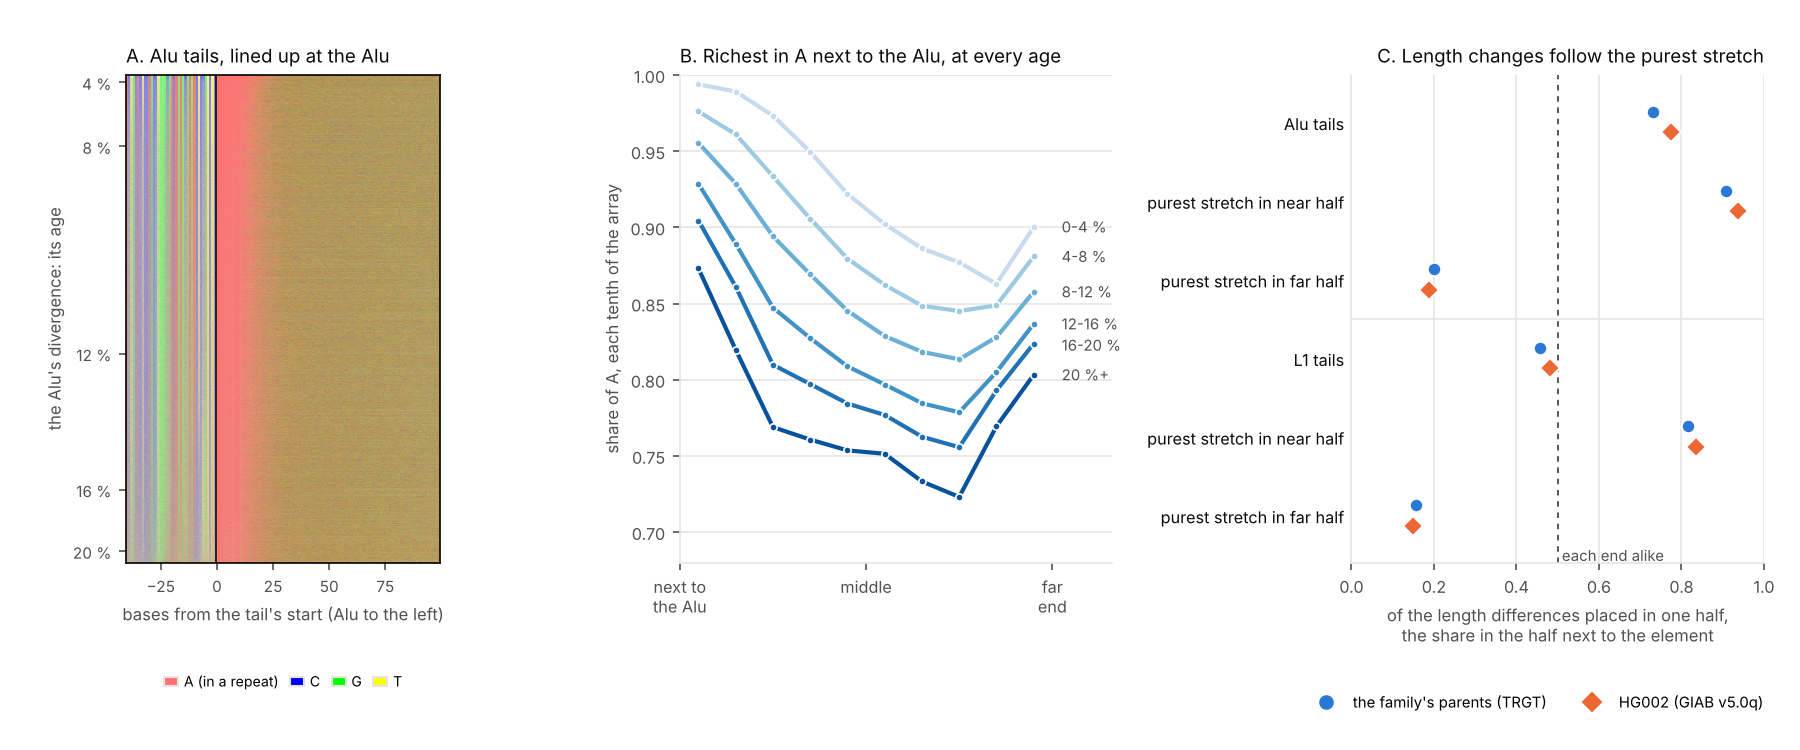
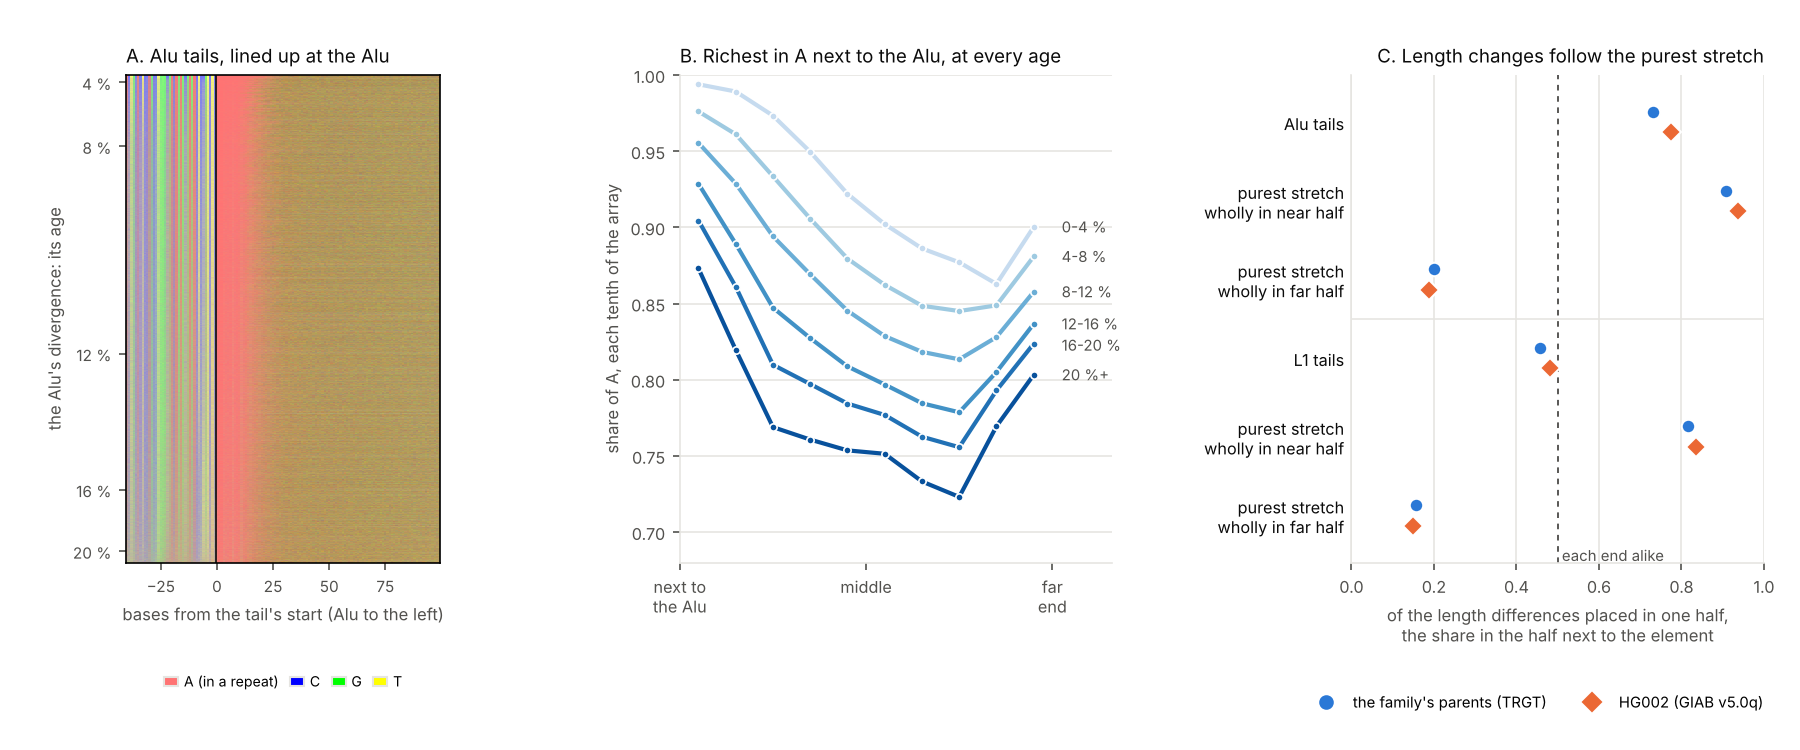
Experiments 11 and 12: the second check's fixes
11: two ratios and a share rounded from the counts; the near-end excess given
for tails 4 to 12 % diverged only (the youngest have too few differences
where the purest stretch lies far); 'on average' for the decay; the share of
differences one event doesn't explain counted among those placed; caveats on
composition, the loci's ends, dependence between differences and experiment
09's runs; panel C's labels as the classes are named.
12: what the poly(A) difference shows, and what the others don't, said as the
caveats say it; the estimable rate ratios counted.

Claude-Session: https://claude.ai/code/session_012i186FzCHAj17DcrF3hpBZ

diff --git a/experiments/11-along-arrays/figures.py b/experiments/11-along-arrays/figures.py
@@ -88,11 +88,11 @@ def main() -> None:
     c = fig.add_subplot(gs[2])
     style(c)
     rows = [("Alu tails", "Alu", "all", None),
-            ("purest stretch in near half", "Alu", "all", "longest in frame wholly in the near half"),
-            ("purest stretch in far half", "Alu", "all", "longest in frame wholly in the far half"),
+            ("purest stretch\nwholly in near half", "Alu", "all", "longest in frame wholly in the near half"),
+            ("purest stretch\nwholly in far half", "Alu", "all", "longest in frame wholly in the far half"),
             ("L1 tails", "L1", "all", None),
-            ("purest stretch in near half", "L1", "all", "longest in frame wholly in the near half"),
-            ("purest stretch in far half", "L1", "all", "longest in frame wholly in the far half")]
+            ("purest stretch\nwholly in near half", "L1", "all", "longest in frame wholly in the near half"),
+            ("purest stretch\nwholly in far half", "L1", "all", "longest in frame wholly in the far half")]
     for i, (label, fam, age, part) in enumerate(rows):
         for dy, (src, (colour, marker, _)) in zip((-0.13, 0.13), SOURCE.items()):
             d = lengths[src][fam][age]

diff --git a/experiments/11-along-arrays/README.md b/experiments/11-along-arrays/README.md
@@ -20,9 +20,12 @@ and a person's two haplotypes base for base beside them.
    complete (at most 20 bases of its consensus missing). The Alu tails, 7.8
    % of loci, hold 48 of the family's 440 new TR mutations (10.9 %): 1.13
    times what loci of their length, motif size and purity have elsewhere
-   (0.84 to 1.50). The 364,475 loci that begin as close to an element's end
-   but fail either test, most of them at ends RepeatMasker finds
-   incomplete, hold 142 (32 %): 1.35 times (1.14 to 1.59).
+   (0.84 to 1.50). The strata leave out composition, and experiment 06
+   found A- and T-rich repeats mutate about twice as often at equal length
+   and purity, so against other A-rich repeats the tails may mutate less.
+   The 364,475 loci that begin as close to an element's end but fail either
+   test, most of them at ends RepeatMasker finds incomplete, hold 142 (32
+   %): 1.35 times (1.14 to 1.59).
 2. **In the reference, Alu tails are richest in A next to the Alu, at every
    age.** In Alu tails 0 to 4 % diverged, the tenth of the array next to
    the Alu is on average 99.4 % A and the ninth tenth 86 %; in the
@@ -30,7 +33,8 @@ and a person's two haplotypes base for base beside them.
    diverged at the median), 99.3 % and 85 %. The gradient forms early,
    perhaps at insertion; but A-tails change within a million years
    (Roy-Engel et al. 2002), so a fast early decay of the far end can't be
-   ruled out. With age the tails lose A all along, least at the two ends:
+   ruled out. With age the tails lose A all along, least at the two ends
+   (where the catalogue's loci also tend to begin and end on a unit):
    from the youngest to the oldest (20 % or more), the near tenth falls by
    12 points, the third by 20, the sixth by 15 and the far tenth by 10. Part
    of that is a change in what the arrays are: 98 % of the youngest tails
@@ -38,7 +42,8 @@ and a person's two haplotypes base for base beside them.
    falls are 3 to 10 points. In experiment 09's pure purine runs at Alu tails, the
    share of G rises from 4 % next to the Alu to 27 % at the far end in the
    youngest Alus, and from 33 % to 40 % (44 % mid-run) in the oldest; A/T
-   runs, with T, go the same way. L1 tails are flatter, and richest in A at
+   runs, with T, go the same way (those runs are experiment 09's tails,
+   found without the test of a complete end). L1 tails are flatter, and richest in A at
    both ends.
 3. **Length changes follow the purest stretch.** Where an allele differs in
    length from the reference, the comparison places the difference in a
@@ -53,13 +58,14 @@ and a person's two haplotypes base for base beside them.
    there 9.9 to 1 (HG002 15.0); where it lies wholly in the far half, they
    fall there 4.0 to 1 (HG002 4.4). Placed differences touch the purest
    stretch 1.43 times as often as stretches as wide put at random (HG002
-   1.55; 1.41 over all 355,505 placed differences at any catalogue locus).
+   1.54; 1.41 over all 355,505 placed differences at any catalogue locus).
 4. **Beyond the purest stretch, Alu tails change more at the Alu end while
    they are young; L1 tails don't.** Were changes to follow the purest
    stretch alone, the two ratios above would mirror each other; at Alu
    tails they leave an excess at the near end of 1.57 times (HG002 1.86).
-   It is 1.8 to 2.1 in tails up to 12 % diverged (HG002 2.0 to 2.6) and
-   fades with age to 0.99 in the oldest (HG002 1.32). Where the two halves
+   It is 1.75 to 2.12 in tails 4 to 12 % diverged (HG002 1.97 to 2.54),
+   and fades with age to 0.99 in the oldest (HG002 1.32); the youngest
+   have too few differences where the purest stretch lies far to say. Where the two halves
    of the array are about as rich in A (within 5 points), Alu tails still
    change near 1.34 times as often as far (HG002 1.16), L1 tails 0.95 times
    (0.95). At L1 tails the excess is 0.90 (0.94), and overall the far half
@@ -71,12 +77,14 @@ interruptions are known to slow slippage (Ananda et al. 2014), and here
 the alleles of two sets of haplotypes differ where the array's purest
 stretch lies, at either end. Alu tails hold their purest stretch next to
 the Alu, from their youngest, so most of their length changes happen at the
-Alu end. Beyond that, young Alu tails change more at the Alu end than their
-purest stretch predicts, by 1.8 to 2.6 times up to 12 % divergence, an
-excess that fades as they age and that L1 tails don't show; why is not clear, and part of it may be
+Alu end. Beyond that, younger Alu tails change more at the Alu end than
+their purest stretch predicts, by 1.75 to 2.12 times in tails 4 to 12 %
+diverged (HG002 1.97 to 2.54), an excess that fades as they age and that
+L1 tails don't show; why is not clear, and part of it may be
 purity the longest stretch doesn't measure. Substitutions, for their part,
-wear the tails down all along their length, least at the ends. So no
-array decays from one end, and length changes go mostly where purity is,
+wear the tails down all along their length, least at the ends. So, on
+average, the tails don't decay from one end, and length changes go mostly
+where purity is,
 which in Alu tails is next to the Alu. The landmark is what makes this
 visible: without the Alu to line them up on, an array's two ends can't be
 told apart, and polarity can't be asked about.
@@ -159,14 +167,14 @@ By where the array's purest stretch lies:
 | Alu, family | 33,715 : 3,411 (9.88) | 1,124 : 4,507 (0.25) | 1.57 |
 | Alu, HG002 | 48,683 : 3,242 (15.02) | 931 : 4,051 (0.23) | 1.86 |
 | L1, family | 2,066 : 469 (4.41) | 456 : 2,475 (0.18) | 0.90 |
-| L1, HG002 | 1,943 : 386 (5.03) | 366 : 2,090 (0.17) | 0.94 |
+| L1, HG002 | 1,943 : 386 (5.03) | 366 : 2,090 (0.18) | 0.94 |
 
 At Alu tails, by the Alu's divergence:
 
 | Divergence | Near : far, family | Excess beyond the purest stretch, family | Near : far, HG002 | Excess, HG002 |
 |---|---|---|---|---|
-| 0-4 % | 1.83 | 1.76 | 2.33 | 2.62 |
-| 4-8 % | 3.08 | 2.12 | 3.65 | 2.54 |
+| 0-4 % | 1.84 | 1.76 | 2.33 | 2.62 |
+| 4-8 % | 3.08 | 2.12 | 3.64 | 2.54 |
 | 8-12 % | 3.09 | 1.75 | 3.80 | 1.97 |
 | 12-16 % | 2.49 | 1.38 | 3.35 | 1.66 |
 | 16-20 % | 2.14 | 1.28 | 2.71 | 1.45 |
@@ -181,11 +189,14 @@ At Alu tails, by the Alu's divergence:
   poly(A).
 - Most differences can't be placed: half of them could lie anywhere in at
   least 79 % of the array (86 % in HG002). The placed ones come from
-  interrupted arrays, where slippage is slower. A difference that is more
-  than one insertion or deletion (9 % of the family's at Alu tails) is
-  placed between the two sequences' shared ends, which can be narrower than
-  where its change in length could lie; single events alone give 3.1 to 1
-  near (HG002 4.3).
+  interrupted arrays, where slippage is slower. A difference that one
+  insertion or deletion alone doesn't explain (9 % of the family's at Alu
+  tails, 21 % of those placed) is placed between the two sequences' shared
+  ends, which can be narrower than where its change in length could lie;
+  the differences one event explains give 3.1 to 1 near (HG002 4.3).
+- The differences aren't independent: an allele counts once for each
+  haplotype that carries it, and the intervals of the ratios, which aren't
+  given, would be wider than counts alone suggest.
 - The purest stretch is the longest stretch in which each base equals the
   base one shortest motif on; for a poly(A), the longest run of one base.
   It is one measure of purity, and the near-end excess may partly be

diff --git a/README.md b/README.md
@@ -25,7 +25,7 @@ done with it.
 | [08-forensic-markers](experiments/08-forensic-markers/) | Which forensic STR markers are pure GA-sequences, where did they come from, and do they mutate faster? | 7 of 27 lie in GA-sequences (FGA, SE33, D18S51, Penta D, D19S433, D2S1338, D10S1248), and 5 begin at the 3' end of an Alu (D18S51, D19S433, Penta D, D3S1358, Penta E). There is no sign that they mutate faster than the other markers (Liu et al. 2021: Mann-Whitney p = 0.89). |
 | [09-alphabets](experiments/09-alphabets/) | Why are the genome's long pure runs purines, when it is 59 % A and T? Pure runs of more than 50 bases in each two-letter alphabet, the Alu and L1 tails they start from, by age, and the spectrum of new substitutions. | Purine runs outnumber A/T runs 2.5 to 1, where composition predicts the reverse. Alu tails start both, but from the youngest Alus to the oldest their pure purine runs rise from 4.8 to 23.8 per 1,000 while their A/T runs fall from 13.4 to 3.5, and in Alu tails only purine runs lengthen. Transitions keep a purine run pure and break the others: 63 % of new substitutions keep an (AAAG)n run pure, 16 % an A/T run. |
 | [10-repeat-edges](experiments/10-repeat-edges/) | Do tandem repeats raise substitution in the DNA around them? Every base outside the 7.3 million catalogue loci, by distance from the nearest repeat and its instability, in HG002's two haplotypes and in new mutations. | No broad shadow: from 11 bases away, HG002's variation is what its trinucleotides predict, except as its own genotype at the repeat sets it. But at the base right beside a repeat, substitutions that extend the repeat run at 2.0 to 6.9 times the expected, rising with the repeat's instability, while the others run near the usual rate. The reference makes 1.6 to 1.7 times of that, by deciding where repeats end. New mutations, free of it, extend repeats 3.1 times as often as expected (40 against 13.1), though all of those are short-read calls. |
-| [11-along-arrays](experiments/11-along-arrays/) | Where along a repeat array does change happen: do arrays grow or decay from one end? The catalogue's loci at Alu and L1 tails (A-rich, at complete 3' ends), lined up at the element, with the family's and HG002's alleles. | Alu tails mutate like other loci of their length, unit and purity. In the reference they are richest in A next to the Alu at every age, even in the human-specific subfamilies, and lose A all along as they age. Their alleles differ in length next to the Alu 2.7 to 3.5 times as often as at the far end, mostly because their purest stretch lies there: length changes follow the purest stretch wherever it is. Beyond it, young Alu tails change more at the Alu end (1.8 to 2.6 times), an excess that fades with age; L1 tails show none. |
+| [11-along-arrays](experiments/11-along-arrays/) | Where along a repeat array does change happen: do arrays grow or decay from one end? The catalogue's loci at Alu and L1 tails (A-rich, at complete 3' ends), lined up at the element, with the family's and HG002's alleles. | Alu tails mutate like other loci of their length, unit and purity. In the reference they are richest in A next to the Alu at every age, even in the human-specific subfamilies, and lose A all along as they age. Their alleles differ in length next to the Alu 2.7 to 3.5 times as often as at the far end, mostly because their purest stretch lies there: length changes follow the purest stretch wherever it is. Beyond it, Alu tails 4 to 12 % diverged change more at the Alu end (1.75 to 2.54 times, in the family and HG002), an excess that fades with age; L1 tails show none. |
 | [12-transcription](experiments/12-transcription/) | Do repeats whose strands differ mutate differently depending on which strand a gene transcribes? Every intronic locus of the catalogue, sense or antisense, against loci between genes, in the family's parents and HG002. | Repeats in genes vary less than repeats between genes (odds 0.84 to 0.97), and least when the polymerase reads their A- or purine-rich strand: sense over antisense, 1.03 for poly(A), in both sets of haplotypes, within Alu tails and outside them; 1.02 to 1.05 for purine runs and 1.08 to 1.11 for A-rich A/T repeats, some intervals including 1; none for G-rich or strand-symmetric repeats. The family's new TR mutations are too few to tell. |
 
 ## Packages

diff --git a/experiments/12-transcription/README.md b/experiments/12-transcription/README.md
@@ -27,7 +27,7 @@ HG002's two haplotypes are read beside it from its gpxil files.
    purine repeats (1.015 to 1.080; HG002 1.022, 0.991 to 1.054) and 1.108
    times for A-rich A/T repeats (1.062 to 1.156; HG002 1.080, 1.035 to
    1.127). With a fifth to two-fifths of poly(A) loci varying, an odds ratio
-   of 1.03 is about 1.02 times as often. G-rich repeats show no difference (1.015, 0.896 to 1.150; HG002
+   of 1.03 corresponds to varying about 1.02 times as often. G-rich repeats show no difference (1.015, 0.896 to 1.150; HG002
    0.960), nor do A/T-alternating ones, whose orientation means nothing
    (0.974 and 0.974).
 3. **Alu tails don't explain it.** The poly(A) loci at Alu tails
@@ -39,7 +39,7 @@ HG002's two haplotypes are read beside it from its gpxil files.
 4. **New TR mutations are too few to tell.** The groups' intronic loci hold
    4 to 44 of the family's new TR mutations each, and no rate ratio of
    sense to antisense is distinguishable from 1. The only rate ratio of the
-   15 whose interval excludes 1 runs against answer 1: purine loci,
+   12 that can be estimated whose interval excludes 1 runs against answer 1: purine loci,
    antisense against between genes, 1.93 (1.02 to 3.68).
 
 **What it means.** In the germline, genes go with fewer length variants at
@@ -54,9 +54,9 @@ bases are commoner when the poly(T) is on the strand the polymerase
 doesn't read (Georgakopoulos-Soares et al. 2020), that is, here,
 antisense. The effects are small, a few percent in odds,
 and they are of variation, which mutation, selection and history shape
-together; but they are seen in two sets of haplotypes called by different
-methods, within Alu tails and outside them, and not where the orientation
-means nothing. Genes differ from the DNA between them in more than
+together; but the poly(A) difference is seen in two sets of haplotypes
+called by different methods, within Alu tails and outside them, and none
+is seen where the orientation means nothing. Genes differ from the DNA between them in more than
 transcription (they replicate earlier, for one), so answer 1 shows a
 difference, not its cause; answer 2 compares intronic loci only.
 
